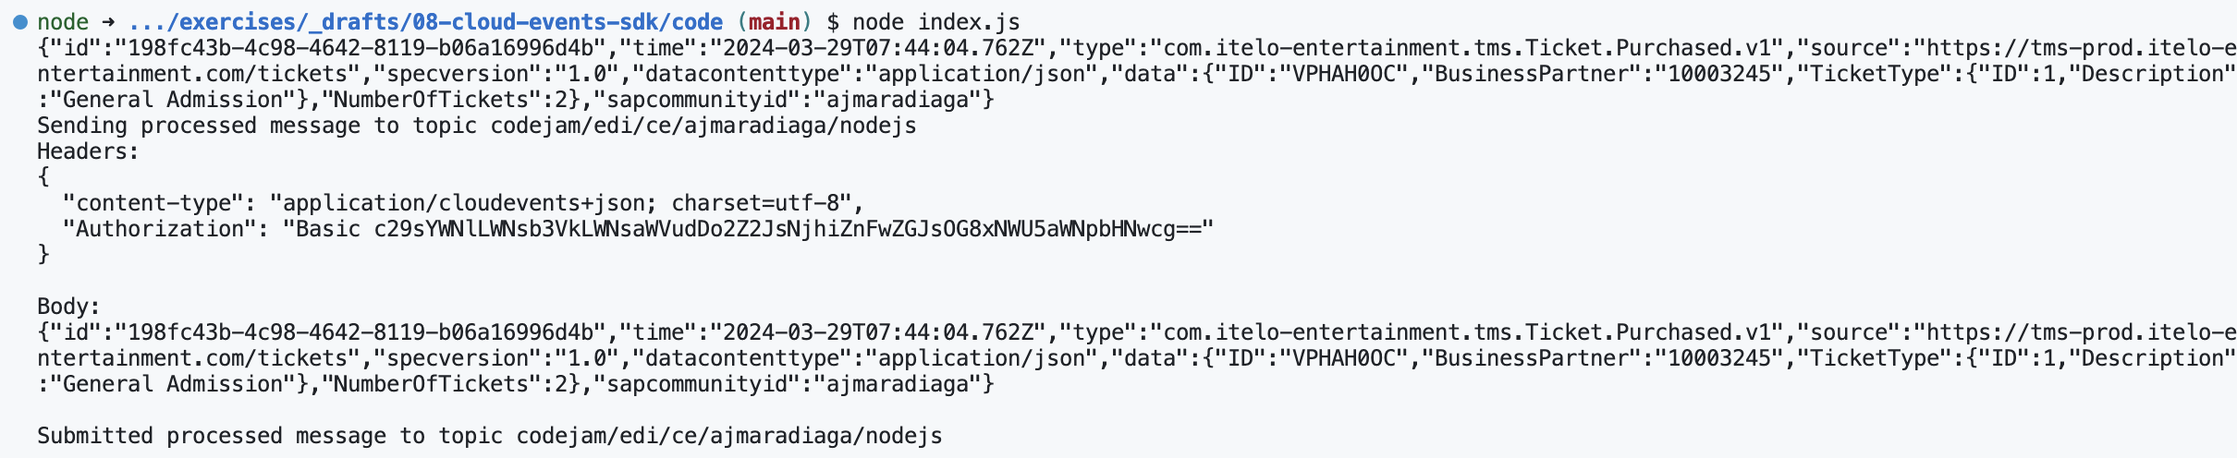
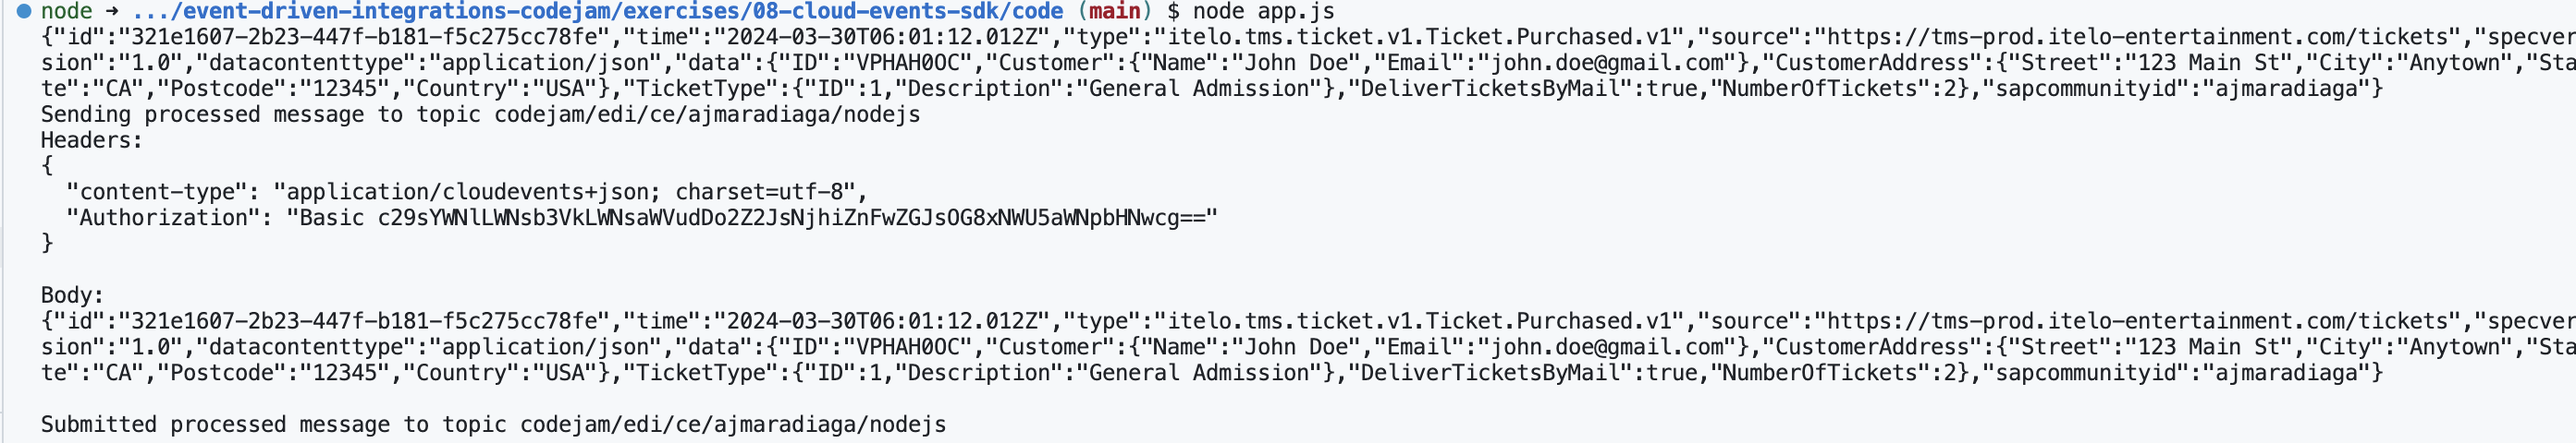
Added explanations for ex 08

diff --git a/exercises/08-cloud-events-sdk/code/app.js b/exercises/08-cloud-events-sdk/code/app.js
@@ -14,45 +14,23 @@ const sendProcessedMessageToTopic = require('./emitter');
 
 /*
 ***********************************
-* Define the Cloud Event contents *
+* Define the CloudEvent contents *
 ***********************************
 */
 
-const ticketId = "VPHAH0OC";
 
-const type = "com.itelo-entertainment.tms.Ticket.Purchased.v1";
-const source = "https://tms-prod.itelo-entertainment.com/tickets";
-const datacontenttype = "application/json";
-const sapcommunityid = "ajmaradiaga";
-
-var data = {
-  "ID": ticketId,
-  "BusinessPartner": "10003245",
-  "TicketType": {
-    "ID": 1,
-    "Description": "General Admission",
-  },
-  "NumberOfTickets": 2,
-};
 
 /*
 **************************
-* Create the Cloud Event *
+* Create the CloudEvent *
 **************************
 */
 
-const emit = emitterFor(sendProcessedMessageToTopic, { mode: Mode.STRUCTURED });
 
-// Create a new CloudEvent
-const ce = new CloudEvent({ type, source, datacontenttype, data, sapcommunityid });
 
 /*
 **************************
-* Send the Cloud Event *
+* Send the CloudEvent *
 **************************
 */
 
-// Send it to the endpoint - encoded as HTTP binary by default but we've set it to structured
-console.log(ce);
-
-emit(ce);

diff --git a/exercises/08-cloud-events-sdk/README.md b/exercises/08-cloud-events-sdk/README.md
@@ -28,18 +28,29 @@ ticket_id = "VPHAH0OC"
 # Create a CloudEvent
 attributes = {
   "specversion": "1.0",
-  "type": "com.itelo-entertainment.tms.Ticket.Purchased.v1",
+  "type": "itelo.tms.ticket.v1.Ticket.Purchased.v1",
   "source": "https://tms-prod.itelo-entertainment.com/tickets",
   "subject": ticket_id,
   "datacontenttype": "application/json",
 }
 data = {
     "ID": ticket_id,
-    "BusinessPartner": "10003245",
+    "Customer": {
+      "Name": "John Doe",
+      "Email": "john.doe@gmail.com"
+    },
+    "CustomerAddress": {
+      "Street": "123 Main St",
+      "City": "Anytown",
+      "State": "CA",
+      "Postcode": "12345",
+      "Country": "USA"
+    },
     "TicketType": {
       "ID": 1,
       "Description": "General Admission",
     },
+    "DeliverTicketsByMail": true,
     "NumberOfTickets": 2,
   }
 event = CloudEvent(attributes, data)
@@ -61,32 +72,64 @@ We will now create a CloudEvent message programmatically using the CloudEvents S
 👉 Open the terminal, navigate to the exercise folder and install the dependencies
 
 ```bash
-cd exercises/08-cloud-events-sdk
+cd exercises/08-cloud-events-sdk/code
 npm install cloudevents
 ```
 
-👉 Open the file `index.js` and add the following code in the `Define the Cloud Event contents` section:
+In this folder we have a few files that we need to get familiar with:
+- package.json: Contains the dependencies of our simple application.
+- .env.sample: Contains the environment variables that we need to set.
+- app.js: At the moment, the file is mostly empty. We are importing the CloudEvents SDK dependencies, loading some environment variables, and importing a module that is responsible for sending the CloudEvent message to a topic in SAP Integration Suite, advanced event mesh. This is the file that we will be working on.
+- emitter.js: This file contains the code that sends the CloudEvent message to the topic in SAP Integration Suite, advanced event mesh. It uses the REST API available in AEM to send a message to a topic.
+
+👉 Make a copy of the `.env.sample` file and name it `.env`. Place it in the same folder as where the `.env.sample` file resides. Replace the placeholder values with the credentials available in the Cluster Manager > `EU-North-Broker` > `Connect` tab > `REST` collapsible section.
+
+<p align = "center">
+  <img alt="EU-North-Broker REST API details" src="assets/broker-details.png" width="90%"/><br/>
+  <i>EU-North-Broker REST API details</i>
+</p>
+
+👉 Open the file `emitter.js` and get familiar with it.
+
+Although we don't need to change anything in this file, it is highly recommended to get familiar with it, so that you can see how the message is sent to the topic.
+
+👉 Open the file `app.js` and get familiar with it.
+
+Notice the different sections in the file. We will be adding code to the `Define the CloudEvent contents`, `Create a CloudEvent`, and `Send the CloudEvent` sections.
+
+👉 Add the code below in the `Define the CloudEvent contents` section of the `app.js` file:
 
 ```javascript
 const ticketId = "VPHAH0OC";
 
-const type = "com.itelo-entertainment.tms.Ticket.Purchased.v1";
+const type = "itelo.tms.ticket.v1.Ticket.Purchased.v1";
 const source = "https://tms-prod.itelo-entertainment.com/tickets";
 const datacontenttype = "application/json";
-const sapcommunityid = "ajmaradiaga";
+const sapcommunityid = "[your-sap-community-id]";
 
 var data = {
   "ID": ticketId,
-  "BusinessPartner": "10003245",
-  "TicketType": {
-    "ID": 1,
-    "Description": "General Admission",
-  },
-  "NumberOfTickets": 2,
+  "Customer": {
+      "Name": "John Doe",
+      "Email": "john.doe@gmail.com"
+    },
+    "CustomerAddress": {
+      "Street": "123 Main St",
+      "City": "Anytown",
+      "State": "CA",
+      "Postcode": "12345",
+      "Country": "USA"
+    },
+    "TicketType": {
+      "ID": 1,
+      "Description": "General Admission",
+    },
+    "DeliverTicketsByMail": true,
+    "NumberOfTickets": 2
 };
 ```
 
-TODO: Brief explanation
+Here we are defining the attributes and data that will be part of the CloudEvent message. We are using the same example as before, the ticket website that generates an event after a customer purchases a ticket. Note: Remember to update the `sapcommunityid` with your SAP Community ID.
 
 👉 Add the following code in the `Create a CloudEvent` section:
 
@@ -97,27 +140,31 @@ const emit = emitterFor(sendProcessedMessageToTopic, { mode: Mode.STRUCTURED });
 const ce = new CloudEvent({ type, source, datacontenttype, data, sapcommunityid });
 ```
 
-TODO: Brief explanation
+The `emitterFor` function is part of the CloudEvents SDK and it is used to inform how we can send the CloudEvent message to the topic. The `Mode.STRUCTURED` parameter specifies that the CloudEvent message will be sent in structured mode. Once the emitter function is ready, we create a new CloudEvent by passing the attributes and data that we defined earlier.
 
 👉 Add the following code in the `Send the CloudEvent` section:
 
 ```javascript
-// Send it to the endpoint - encoded as HTTP binary by default but we've set it to structured
 console.log(ce);
 
 emit(ce);
 ```
+Finally, we will print the CloudEvent message to the console and send it.
 
-TODO: Brief explanation
+👉 Save the file and run the script by running on terminal 
 
-👉 Save the file and run the script by running on terminal `node index.js`
+```bash
+$ node app.js
+```
 
 If everything went well, you should see the CloudEvent message printed in the console.
 
 <p align = "center">
-  <img alt="Output of program index.js" src="assets/code-execution.png" width="85%"/><br/>
-  <i>Output of program index.js</i>
+  <img alt="Output of program app.js" src="assets/code-execution.png" width="100%"/><br/>
+  <i>Output of program app.js</i>
 </p>
+
+> Note: If you see an error message, make sure that you have set the environment variables correctly in the `.env` file. Also, a solution for this exercise is available in the `.sap/code/08-cloudevents-sdk` folder.
 
 ## Summary
 
